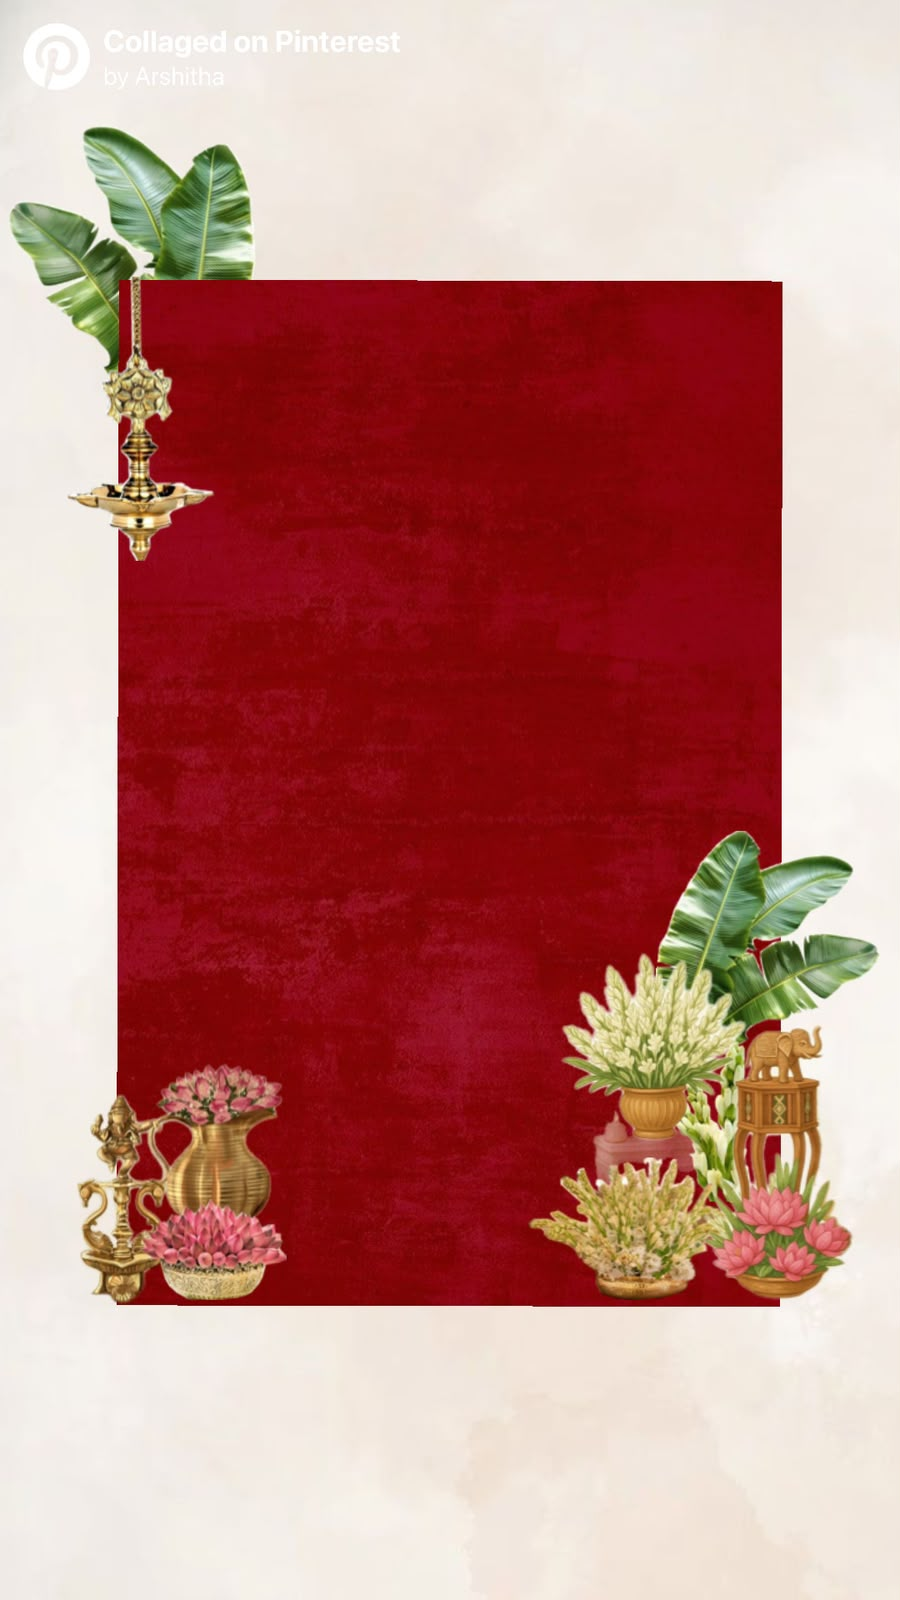
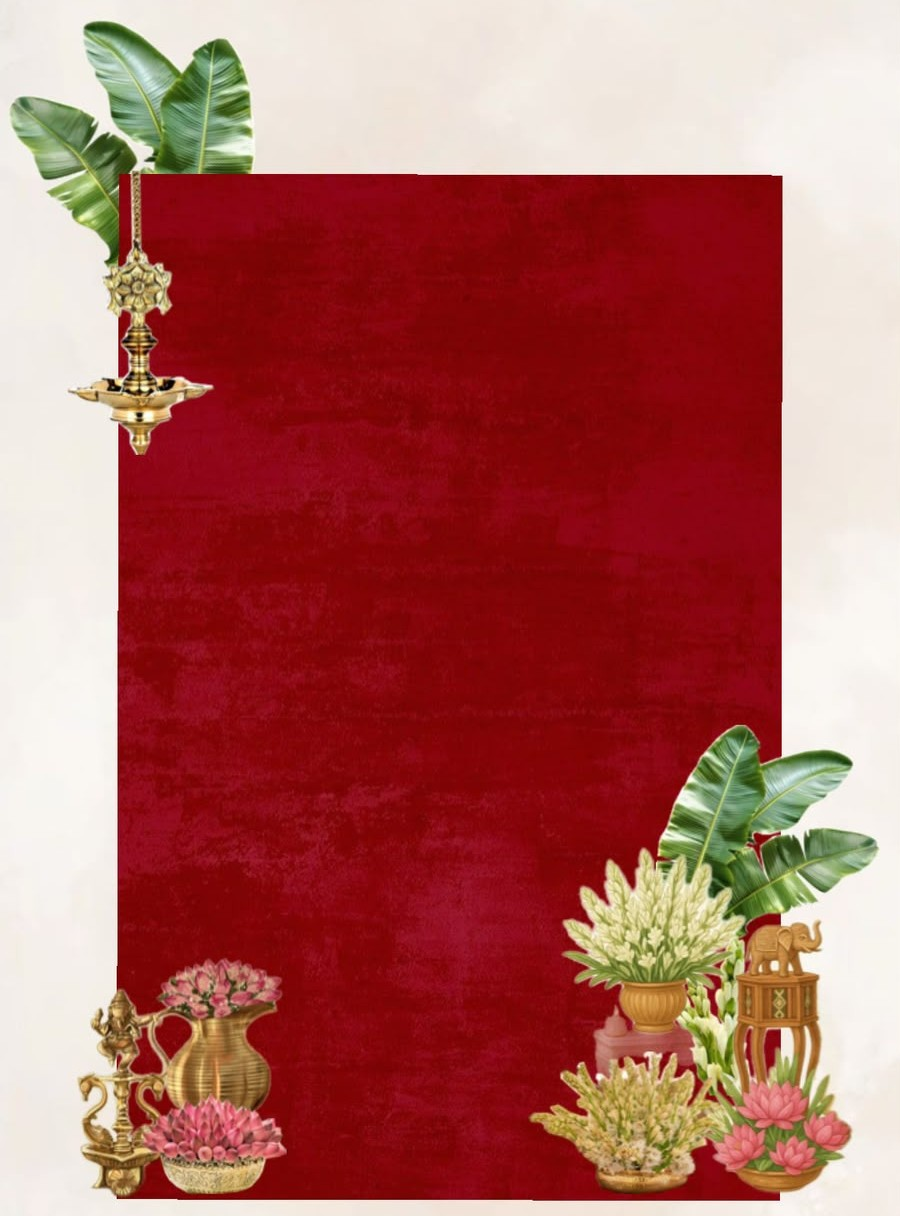
Update wedding invitation details

diff --git a/css/main.css b/css/main.css
@@ -257,13 +257,14 @@ html, body {
  */
 .page1-text-overlay {
     position: absolute;
-    top: 40%;
+    top: 50%;
     left: 0;
     right: 0;
     margin-left: auto;
     margin-right: auto;
-    width: min(72%, 280px);
-    max-height: 56vh;
+    transform: translateY(-50%);
+    width: min(88%, 380px);
+    max-height: 68vh;
     text-align: center;
     display: flex;
     flex-direction: column;
@@ -311,47 +312,47 @@ html, body {
 /* ── "YOU'RE INVITED" ── */
 .page1-invited-heading {
     font-family: var(--font-serif-title);
-    font-size: clamp(0.72rem, 2.2vw, 0.92rem);
-    letter-spacing: 3px;
+    font-size: clamp(1.4rem, 4vw, 2rem);
+    letter-spacing: 3.5px;
     color: #FFF2B3;
-    font-weight: 600;
+    font-weight: 700;
     text-transform: uppercase;
     line-height: 1.25;
-    margin-bottom: 0.45rem;
-    text-shadow: 0 1px 6px rgba(0,0,0,0.6);
+    margin-bottom: 0.65rem;
+    text-shadow: 0 2px 10px rgba(0,0,0,0.7), 0 0 20px rgba(212,175,55,0.35);
 }
 
 /* ── "To Witness a Forever of Love" ── */
 .page1-left-subtext {
     font-family: var(--font-serif-body);
-    font-size: clamp(0.82rem, 2.4vw, 0.98rem);
+    font-size: clamp(1.1rem, 2.9vw, 1.35rem);
     font-style: italic;
     color: #F8E5C4;
-    line-height: 1.35;
-    margin-bottom: 0.4rem;
-    text-shadow: 0 1px 6px rgba(0,0,0,0.6);
+    line-height: 1.45;
+    margin-bottom: 0.5rem;
+    text-shadow: 0 1px 6px rgba(0,0,0,0.7);
 }
 
 /* ── "Join Us for a Beautiful Beginning" ── */
 .page1-invite-intro {
     font-family: var(--font-serif-body);
-    font-size: clamp(0.8rem, 2.3vw, 0.95rem);
+    font-size: clamp(1.08rem, 2.8vw, 1.32rem);
     font-style: italic;
     color: #F5DEC2;
-    line-height: 1.35;
-    margin-bottom: 0.4rem;
-    text-shadow: 0 1px 5px rgba(0,0,0,0.55);
+    line-height: 1.45;
+    margin-bottom: 0.5rem;
+    text-shadow: 0 1px 6px rgba(0,0,0,0.65);
 }
 
 /* ── "As Two Hearts Become One" ── */
 .page1-invite-line4 {
     font-family: var(--font-serif-body);
-    font-size: clamp(0.82rem, 2.4vw, 0.98rem);
+    font-size: clamp(1.1rem, 2.9vw, 1.35rem);
     font-style: italic;
     color: #FFF2B3;
-    line-height: 1.35;
+    line-height: 1.45;
     margin-bottom: 0;
-    text-shadow: 0 1px 6px rgba(0,0,0,0.6);
+    text-shadow: 0 1px 6px rgba(0,0,0,0.7);
 }
 
 /* ── Couple name block ── */
@@ -415,38 +416,38 @@ html, body {
 /* Very short viewports (landscape phones, small screens) */
 @media (max-height: 600px) {
     .page1-text-overlay {
-        width: min(72%, 270px);
-        max-height: 80vh;
-        top: 40%;
+        width: min(80%, 340px);
+        max-height: 85vh;
+        top: 50%;
         gap: 0;
     }
-    .page1-invited-heading               { font-size: 0.95rem; margin-bottom: 0.25rem; }
+    .page1-invited-heading               { font-size: 1.15rem; margin-bottom: 0.3rem; letter-spacing: 2px; }
     .page1-left-subtext,
     .page1-invite-intro,
-    .page1-invite-line4                  { font-size: 0.82rem; margin-bottom: 0.2rem; }
+    .page1-invite-line4                  { font-size: 0.88rem; margin-bottom: 0.22rem; }
     .page1-invite-line4                  { margin-bottom: 0; }
 }
 
-/* Portrait mobile phones (≤ 480px wide) — prominent heading & comfortable readability */
+/* Portrait mobile phones (≤ 480px wide) — prominent heading & comfortable readability, centered */
 @media (max-width: 480px) {
     .page1-text-overlay {
-        width: min(85%, 320px);
-        top: 39%;
+        width: min(88%, 340px);
+        top: 50%;
         padding: 0 0.5rem;
     }
     .page1-invited-heading {
-        font-size: clamp(1.22rem, 5.2vw, 1.48rem);
-        letter-spacing: 2px;
+        font-size: clamp(1.35rem, 5.8vw, 1.65rem);
+        letter-spacing: 2.2px;
         font-weight: 700;
-        margin-bottom: 0.45rem;
+        margin-bottom: 0.55rem;
         line-height: 1.25;
     }
     .page1-left-subtext,
     .page1-invite-intro,
     .page1-invite-line4 {
-        font-size: clamp(0.96rem, 3.8vw, 1.12rem);
-        line-height: 1.38;
-        margin-bottom: 0.38rem;
+        font-size: clamp(1.05rem, 4.1vw, 1.22rem);
+        line-height: 1.42;
+        margin-bottom: 0.42rem;
     }
     .page1-invite-line4 {
         margin-bottom: 0;
@@ -462,30 +463,43 @@ html, body {
 /* Narrow mobile (≤ 360px wide) */
 @media (max-width: 360px) {
     .page1-text-overlay {
-        width: min(88%, 290px);
-        top: 39%;
+        width: min(90%, 310px);
+        top: 50%;
     }
     .page1-invited-heading {
-        font-size: clamp(1.08rem, 4.8vw, 1.25rem);
+        font-size: clamp(1.2rem, 5.2vw, 1.4rem);
         letter-spacing: 1.8px;
-        margin-bottom: 0.35rem;
+        margin-bottom: 0.45rem;
     }
     .page1-left-subtext,
     .page1-invite-intro,
     .page1-invite-line4 {
-        font-size: clamp(0.88rem, 3.5vw, 1rem);
-        margin-bottom: 0.3rem;
+        font-size: clamp(0.95rem, 3.8vw, 1.08rem);
+        margin-bottom: 0.35rem;
     }
     .page1-invite-line4 {
         margin-bottom: 0;
     }
 }
 
-/* Wide desktop — keep horizontally centered and properly balanced within the red panel */
+/* Wide desktop — perfectly centered horizontally and vertically */
 @media (min-width: 768px) {
     .page1-text-overlay {
-        width: min(65%, 280px);
-        top: 40%;
+        width: min(75%, 380px);
+        top: 50%;
+    }
+    .page1-invited-heading {
+        font-size: 1.95rem;
+        margin-bottom: 0.7rem;
+    }
+    .page1-left-subtext,
+    .page1-invite-intro,
+    .page1-invite-line4 {
+        font-size: 1.3rem;
+        margin-bottom: 0.5rem;
+    }
+    .page1-invite-line4 {
+        margin-bottom: 0;
     }
 }
 
@@ -1686,11 +1700,112 @@ html, body {
 
 @media (max-width: 480px) {
     #screen-venue {
-        padding: 1.5rem 1rem 1rem 1rem;
+        padding: 1.1rem 0.9rem 0.8rem 0.9rem !important;
+        justify-content: center !important;
+        gap: 0.35rem;
+    }
+    #screen-venue .script-heading {
+        font-size: 1.85rem;
+        margin-bottom: 0.1rem;
+        line-height: 1.15;
+    }
+    #venue-name {
+        font-size: 0.95rem;
+        margin-top: 0.15rem;
+        letter-spacing: 1.5px;
+    }
+    #venue-address {
+        font-size: 0.78rem;
+        line-height: 1.3;
+        max-width: 290px;
     }
     .map-embed-container {
-        height: 165px;
-        margin: 0.4rem 0;
+        height: 125px;
+        max-width: 320px;
+        margin: 0.25rem 0;
+        border-radius: 10px;
+    }
+    #get-directions-btn {
+        padding: 0.46rem 1.4rem;
+        font-size: 0.82rem;
+        margin: 0.15rem 0;
+    }
+    .travel-note-card {
+        padding: 0.55rem 0.85rem;
+        max-width: 350px;
+        width: 95%;
+        margin: 0.15rem auto 0 auto;
+        border-radius: 10px;
+    }
+    .travel-note-title {
+        font-size: 0.88rem;
+        margin-bottom: 0.15rem;
+    }
+    .travel-note-desc {
+        font-size: 0.76rem;
+        line-height: 1.3;
+        margin-bottom: 0.25rem;
+    }
+    .travel-note-details {
+        margin: 0.2rem 0;
+        padding: 0.2rem 0;
+    }
+    .travel-note-row {
+        font-size: 0.72rem;
+        line-height: 1.3;
+        margin: 0.1rem 0;
+    }
+    .travel-note-closing {
+        font-size: 0.76rem;
+        margin-top: 0.18rem;
+    }
+}
+
+@media (max-width: 360px), (max-height: 660px) {
+    #screen-venue {
+        padding: 0.7rem 0.75rem 0.5rem 0.75rem !important;
+        gap: 0.2rem;
+    }
+    #screen-venue .script-heading {
+        font-size: 1.6rem;
+    }
+    #screen-venue .serif-title {
+        font-size: 0.85rem;
+    }
+    #screen-venue .serif-sub {
+        font-size: 0.7rem;
+    }
+    .map-embed-container {
+        height: 100px;
+        max-width: 270px;
+        margin: 0.15rem 0;
+    }
+    #get-directions-btn {
+        padding: 0.4rem 1.15rem;
+        font-size: 0.76rem;
+    }
+    .travel-note-card {
+        padding: 0.42rem 0.7rem;
+        max-width: 300px;
+    }
+    .travel-note-title {
+        font-size: 0.8rem;
+    }
+    .travel-note-desc {
+        font-size: 0.7rem;
+        line-height: 1.22;
+    }
+    .travel-note-details {
+        margin: 0.15rem 0;
+        padding: 0.15rem 0;
+    }
+    .travel-note-row {
+        font-size: 0.66rem;
+        margin: 0.08rem 0;
+    }
+    .travel-note-closing {
+        font-size: 0.7rem;
+        margin-top: 0.1rem;
     }
 }
 

diff --git a/index.html b/index.html
@@ -4,7 +4,7 @@
 <head>
     <meta charset="UTF-8">
     <meta name="viewport" content="width=device-width, initial-scale=1.0, maximum-scale=1.0, user-scalable=no">
-    <title>Wedding Invitation — Kiranmayee & Sandeep</title>
+    <title>Wedding Invitation — Arshitha & Vivek</title>
     <meta name="description"
         content="Interactive Digital Wedding Invitation for the wedding celebration of Kiranmayee & Sandeep. Join us on 1st July 2026.">
 
